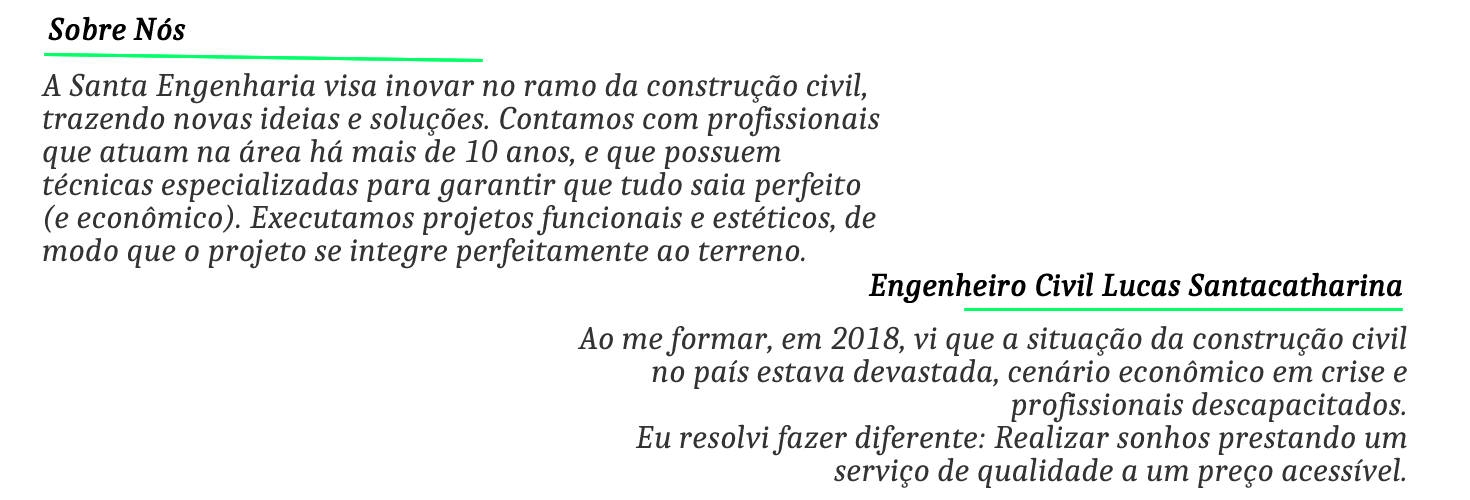
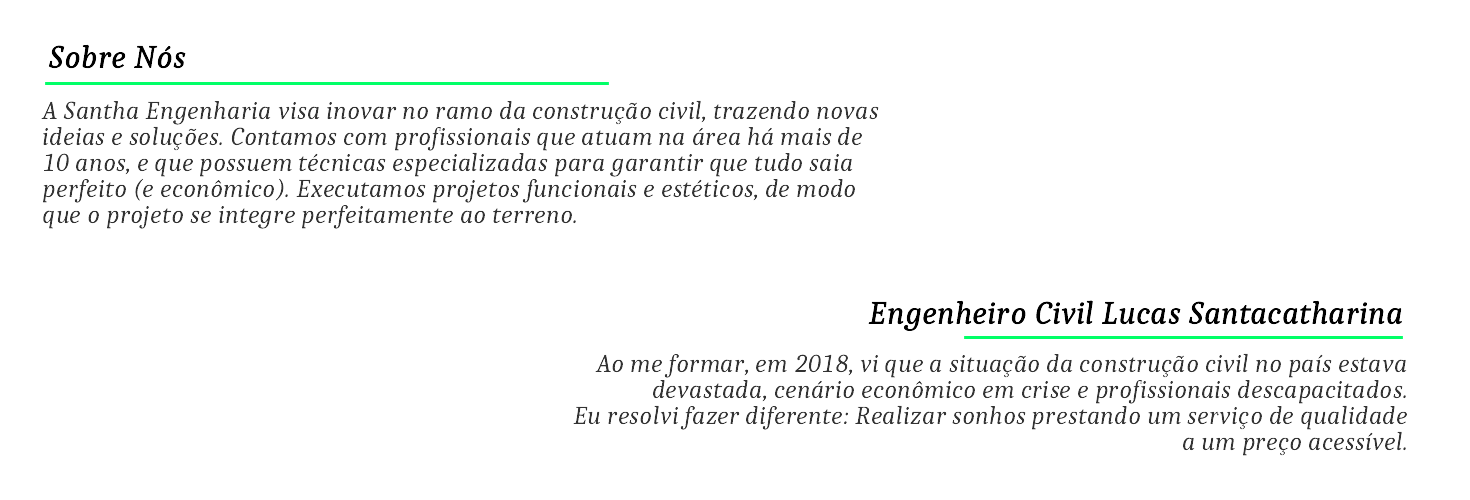
Add files via upload

Changed region(s): [[0.0306, 0.03, 0.6122, 0.54], [0.398, 0.54, 0.9796, 0.9], [0.551, 0.93, 0.949, 0.96]]

diff --git a/index.html b/index.html
@@ -2,7 +2,8 @@
 <html>
 <head>
 <meta charset="utf-8">
-	<title>Santa Engenharia</title>
+	<title>Santha Engenharia</title>
+	<link rel="shortchut icon" href="icon.png">
 <style>
 
 *{
@@ -35,6 +36,7 @@ a:active {
 	height: 50px;
 	position: fixed;
 	display: flex;
+	z-index: 3;
 }
 
 .links label{
@@ -57,32 +59,94 @@ a:active {
 	display: none;
 }
 
+
+.form input{
+	display: flex;
+	margin: 0 auto;
+    	width: 30vw;
+	height: 3vh;
+	padding: 1em;
+	border: 1px solid #CCC;
+	border-radius: 1em;
+}
+
+.form textarea{
+	display: flex;
+	margin: 0 auto;
+    	width: 30vw;
+	height: 10vh;
+	padding: 1em;
+	border: 1px solid #CCC;
+	border-radius: 1em;
+	resize: none;
+}
+
+.form button{
+	display: flex;
+	margin: 0 auto;
+    	width: 5vw;
+	height: 3vh;
+	border: 1px solid #CCC;
+	border-radius: 1em;
+	justify-content: center;
+	align-items: center;
+}
+
+.form {
+	position: fixed;
+	display: flex;
+	text-align: center;
+	font-family: 'Arial';
+	font-size: 100%;
+	color: #000;
+	font-weight: bold;
+	left: 20vw;
+	z-index: 10;
+}
+
 .bloco{
 	width: 100vw;
 	height: 100vh;
 	justify-content: center;
 	align-items: center;
 	display: flex;
+	z-index: 1;
 }
 
 .bloco img{
 	width: 100%;
+	z-index: 1;
+}
+
+.bg{
+	position: fixed;
+	width: 100vw;
+	height: 100vh;
+	justify-content: center;
+	align-items: center;
+	display: flex;
+	z-index: 0;
+}
+
+.bg img{
+	width: 100%;
+	height: 100%;
 }
 
 #nodejs{
-	background-color: #fff;
+	background-color: #FFF;
 }
 
 #bootstrap{
-	background-color: #69f;
+	background-color: #AAA;
 }
 
 #sass{
-	background-color: #faa;
+	background-color: #FFF;
 }
 
 #ruby{
-	background-color: #aaa;
+	background-color: #AAA;
 }
 
 .scroll{
@@ -100,12 +164,30 @@ a:active {
 	margin-top: -100vh;
 }
 
+#rd_bootstrap:checked ~ .scroll{
+	display: none;
+}
+
 #rd_sass:checked ~ .sections{
 	margin-top: -200vh;
 }
 
 #rd_ruby:checked ~ .sections{
 	margin-top: -300vh;
+}
+
+.footer {
+	position:absolute;
+	bottom: 20px;
+	width: 100vw;
+	justify-content: center;
+	align-items: center;
+	display: flex;
+	font-family: 'Arial';
+	font-size: 70%;
+	color: #000;
+	font-weight: bold;
+	z-index:20;
 }
 
 </style>
@@ -116,7 +198,7 @@ a:active {
 	<label for="rd_bootstrap">Sobre n&oacutes</label>
 	<label for="rd_sass">Servi&ccedilos</label>
 	<label for="rd_ruby">Contato</label>
-	<label><a href="http://instagram.com/santaengenharia" target="_blank">Instagram</a></label>
+	<label><a href="http://instagram.com/santhaengenharia" target="_blank">Instagram</a></label>
 </nav>
 
 <div class="scroll">
@@ -126,12 +208,41 @@ a:active {
 	<input type="radio" name="grupo" id="rd_ruby">
 
 <section class="sections">
-	<section class="bloco" id="nodejs"><img src="home5.gif"></section>
-	<section class="bloco" id="bootstrap"><img src="about.png"></section>
-	<section class="bloco" id="sass"><img src="services3.png"></section>
-	<section class="bloco" id="ruby"><img src="contact.png"></section>
+	<section class="bloco" id="nodejs">
+		<img src="home.gif"></section>
+	<section class="bloco" id="bootstrap">
+		<div class="bg" id="about"><img src="bgabout.png"></div>
+		<img src="about.png"></section>
+	<section class="bloco" id="sass">
+		<div class="bg" id="services"><img src="bgservices.png"></div>
+		<img src="services.png"></section>
+	<section class="bloco" id="ruby">
+	<div class="form" id="teste">
+<form name="contact" method="POST" data-netlify="true">
+  <p>
+	<input type="text" name="nome" width="300px" value="Nome" /></label>   
+  </p>
+  <p>
+    <label><input type="email" name="email" value="Seu Email" /></label>
+  </p>
+  <p>
+    <label><input type="text" name="telefone" value="Telefone (opcional)" /></label>
+  </p>
+  <p>
+    <label><textarea name="message">Descreva o produto ou serviço que está procurando!</textarea></label>
+  </p>
+  <p>
+    <button type="submit">Enviar</button>
+  </p>
+</form>
+	</div>
+			<div class="bg" id="contact"><img src="bgcontact.png"></div>
+			<img src="contact.png"></section>
 </section>
 
 </div>
+    <section class="footer">
+        &copy; 2020 - Desenvolvido por Lucas Santacatharina
+    </section>
 </body>
 </html>
